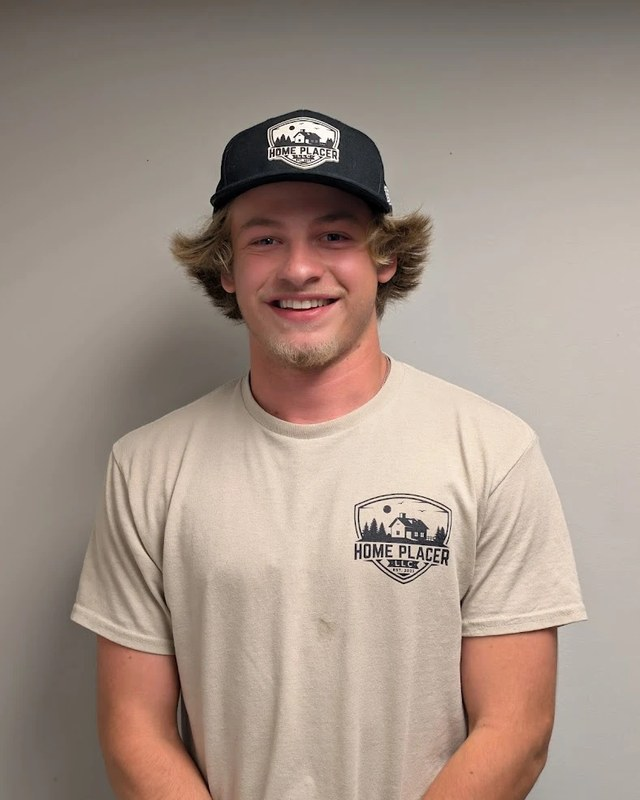
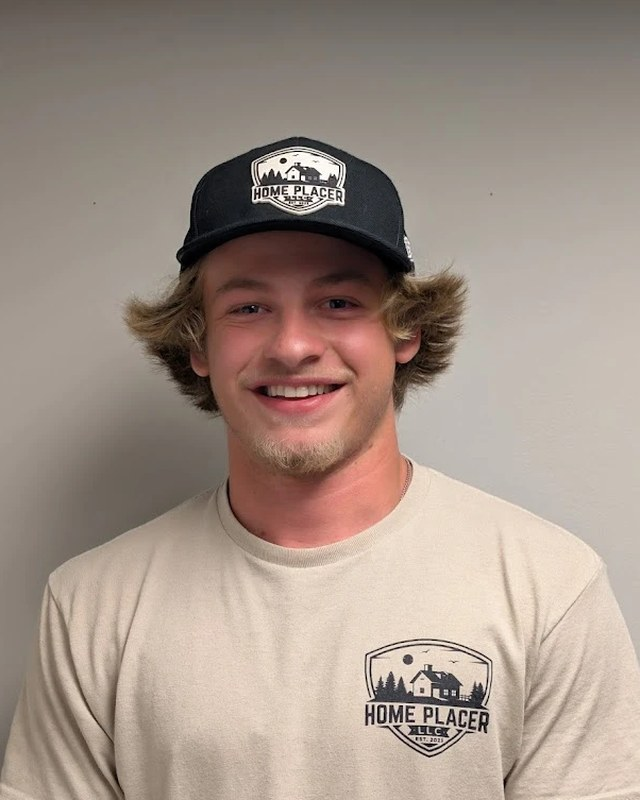
Team photos: add Brett, Sam, Joe; tighter consistent headshot crops
- Brett Chester + Sam Cliffton from their solo headshots; Joe Scaturro cropped
  from the crew group photo (far left).
- Re-cropped all headshots to a tighter, consistent head-and-shoulders 4:5.
- Only Tara Dufour remains on an initials placeholder.

diff --git a/src/lib/team.ts b/src/lib/team.ts
@@ -25,6 +25,7 @@ export const teamGroups: TeamGroup[] = [
       {
         name: "Joe Scaturro",
         title: "Owner & Founder",
+        photo: "/team/joe-scaturro.jpg",
         blurb:
           "Founded Home Placer to make a brand-new home on your own land genuinely affordable in Horry County — handled start to finish, the honest way.",
       },
@@ -41,6 +42,7 @@ export const teamGroups: TeamGroup[] = [
       {
         name: "Brett Chester",
         title: "Project Manager",
+        photo: "/team/brett-chester.jpg",
         blurb: "Runs each build on the ground — land prep, the set, and the finish work.",
       },
     ],
@@ -58,7 +60,7 @@ export const teamGroups: TeamGroup[] = [
     label: "Carpentry",
     members: [
       { name: "Scott Choma", title: "Carpenter", photo: "/team/scott-choma.jpg" },
-      { name: "Sam Cliffton", title: "Carpenter" },
+      { name: "Sam Cliffton", title: "Carpenter", photo: "/team/sam-cliffton.jpg" },
       { name: "Kadin Prestly", title: "Carpenter", photo: "/team/kadin-prestly.jpg" },
     ],
   },
